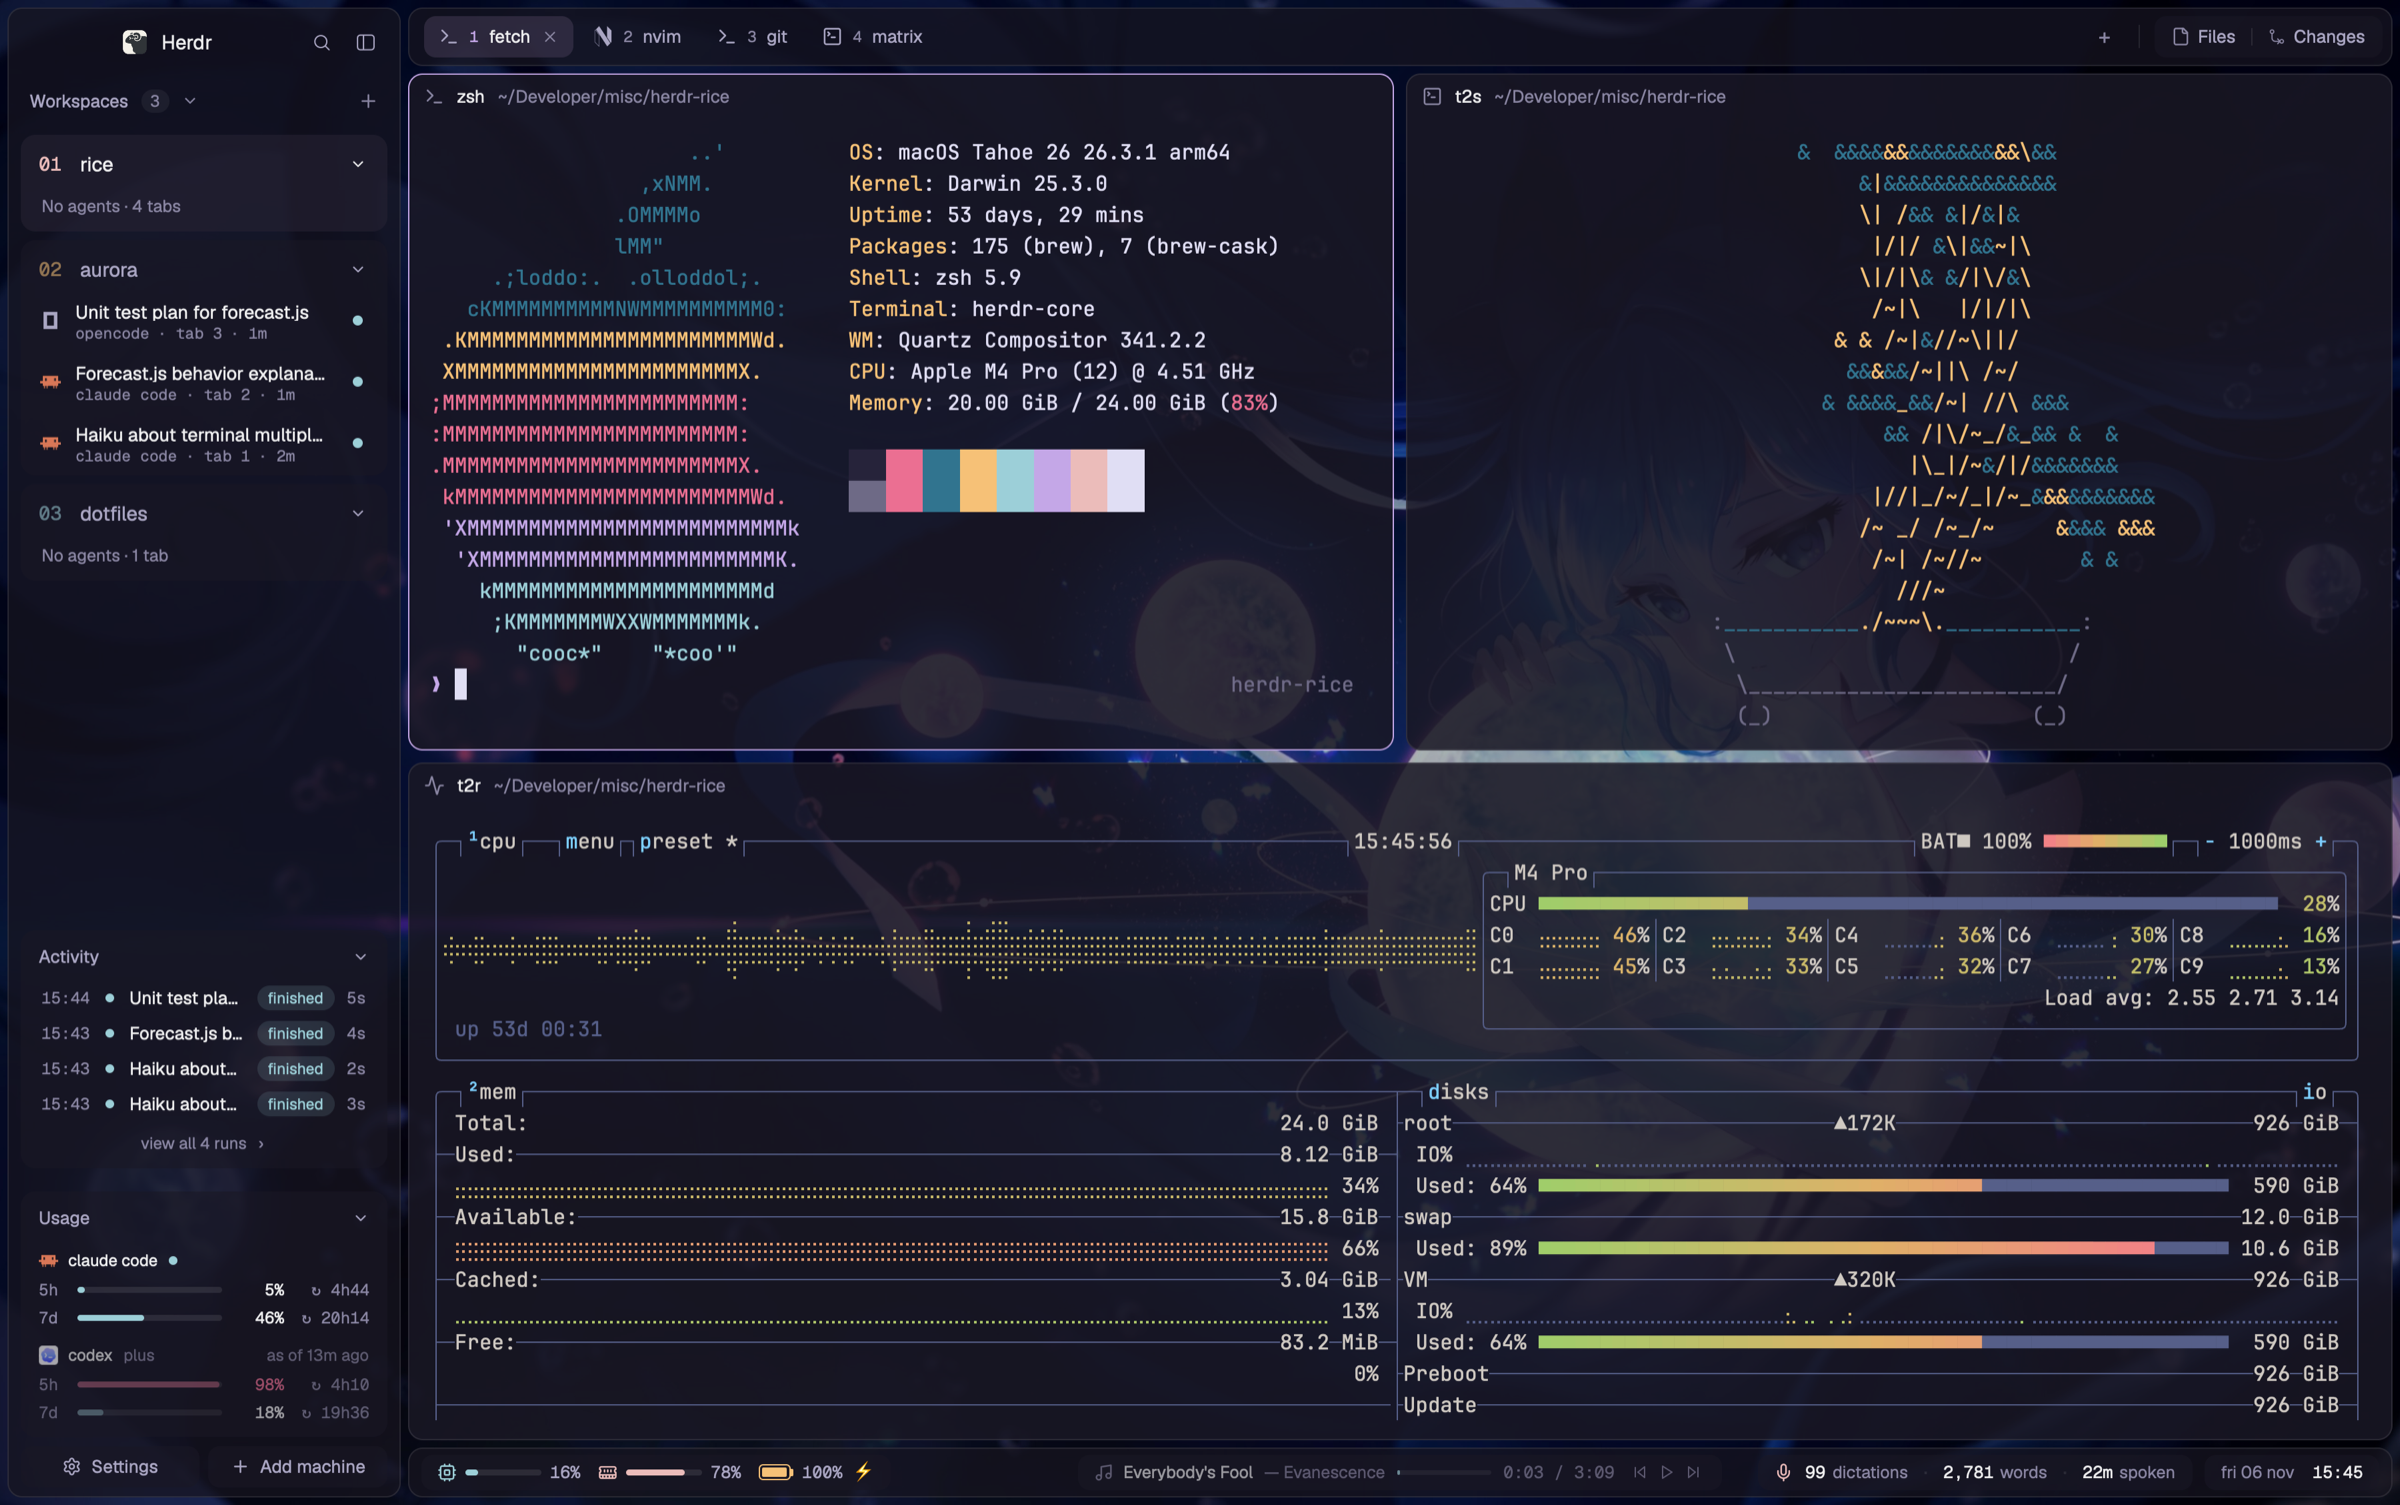
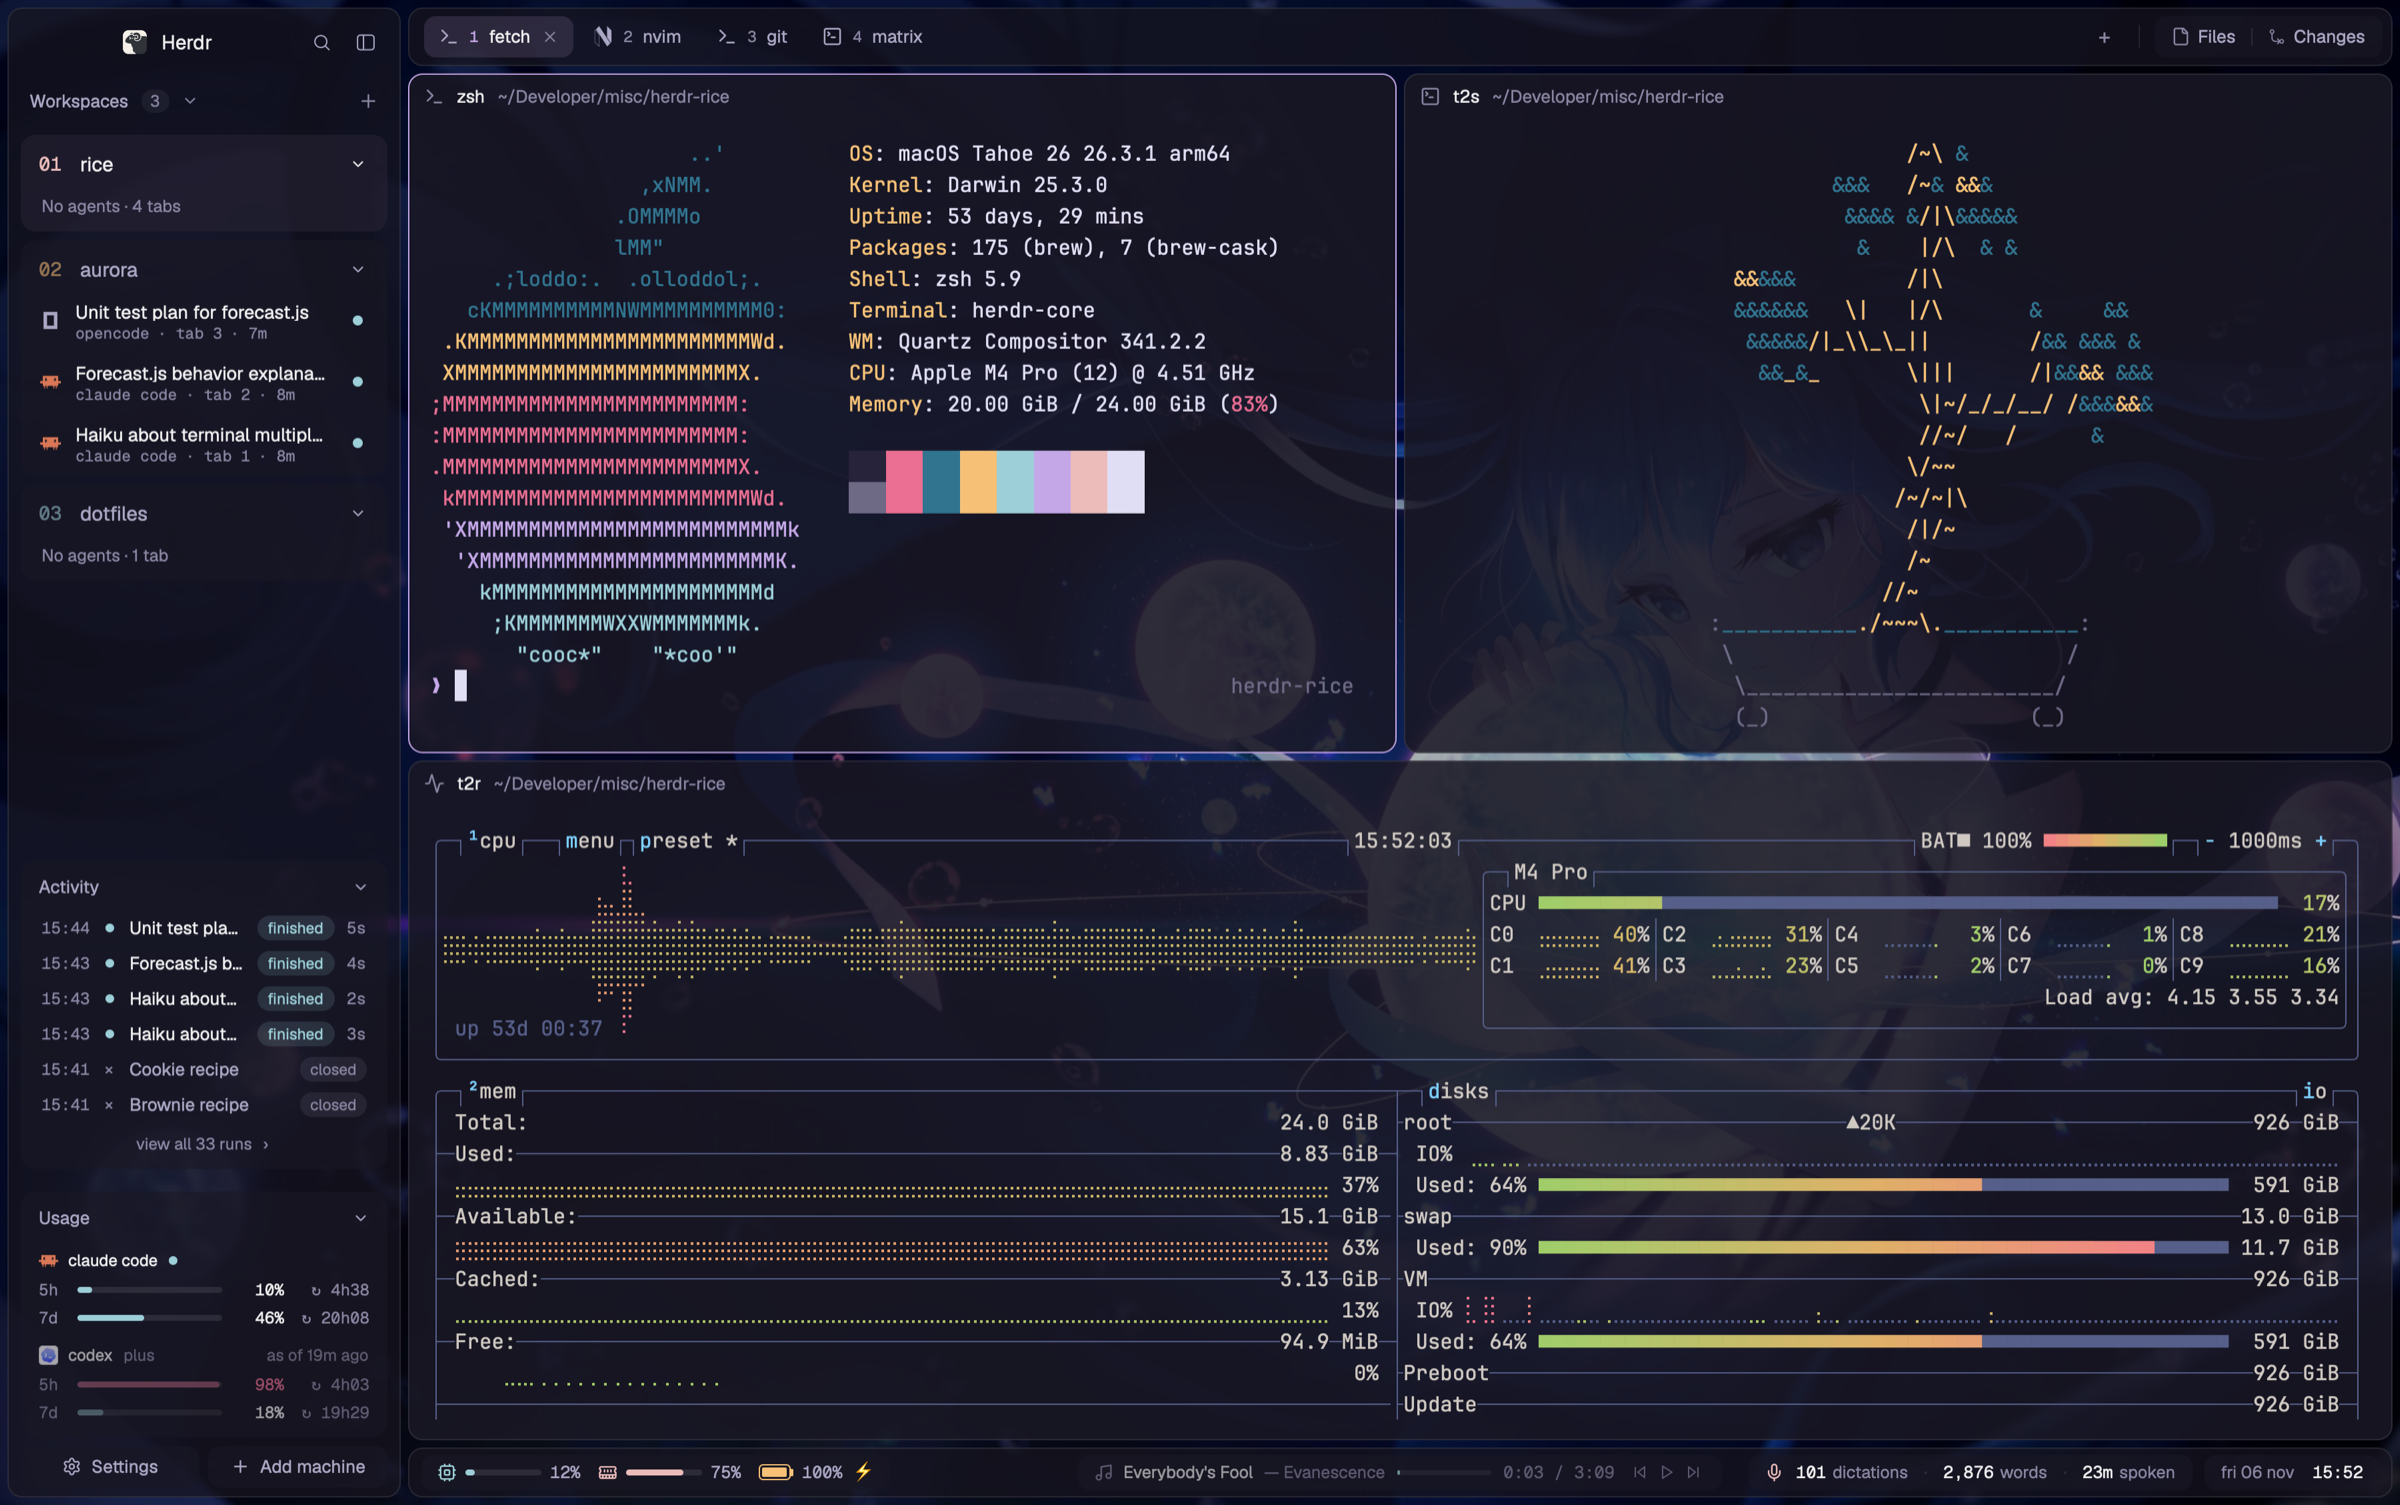
Match the gap between split panes to the island gap
The pane gap stayed at 8px while the Gaps setting (5px) only moved the
islands. applyLook now sets both, the layout ships 5px, and the hero and
transparency on/off screenshots are retaken with even gaps.

diff --git a/mods/my-keys/main.js b/mods/my-keys/main.js
@@ -126,6 +126,7 @@ function applyLook(root, r) {
   const pane = find(root, "main")?.content?.pane;
   if (pane) {
     pane.radius = radius;
+    pane.gap = gap;              // between split panes: same as between the islands
     if (borders) pane.border = border; else delete pane.border;
     if (r["look.focusRing"] !== false) pane.focus = { width: 1, color: "accent" };
     else if (borders) pane.focus = border; else delete pane.focus;

diff --git a/RECIPE.md b/RECIPE.md
@@ -30,7 +30,7 @@ semibold, agent titles regular. Cards and groups use soft fills and a roughly
 adapt to their contents.
 
 The work area has a 40px tab strip, flexible terminal panes (30px always-visible
-headers), and a 32px status bar. Terminal padding is `[14, 12]`, pane gap 8px.
+headers), and a 32px status bar. Terminal padding is `[14, 12]`, pane gap 5px (the same as the island gap; Settings → Gaps sets both).
 A hidden Files/Changes stack can open to the right, initially 368px wide
 (280–900px). The status bar groups CPU, memory, battery, music with transport
 controls, numeric Wispr Flow statistics, agent status and date/time.
